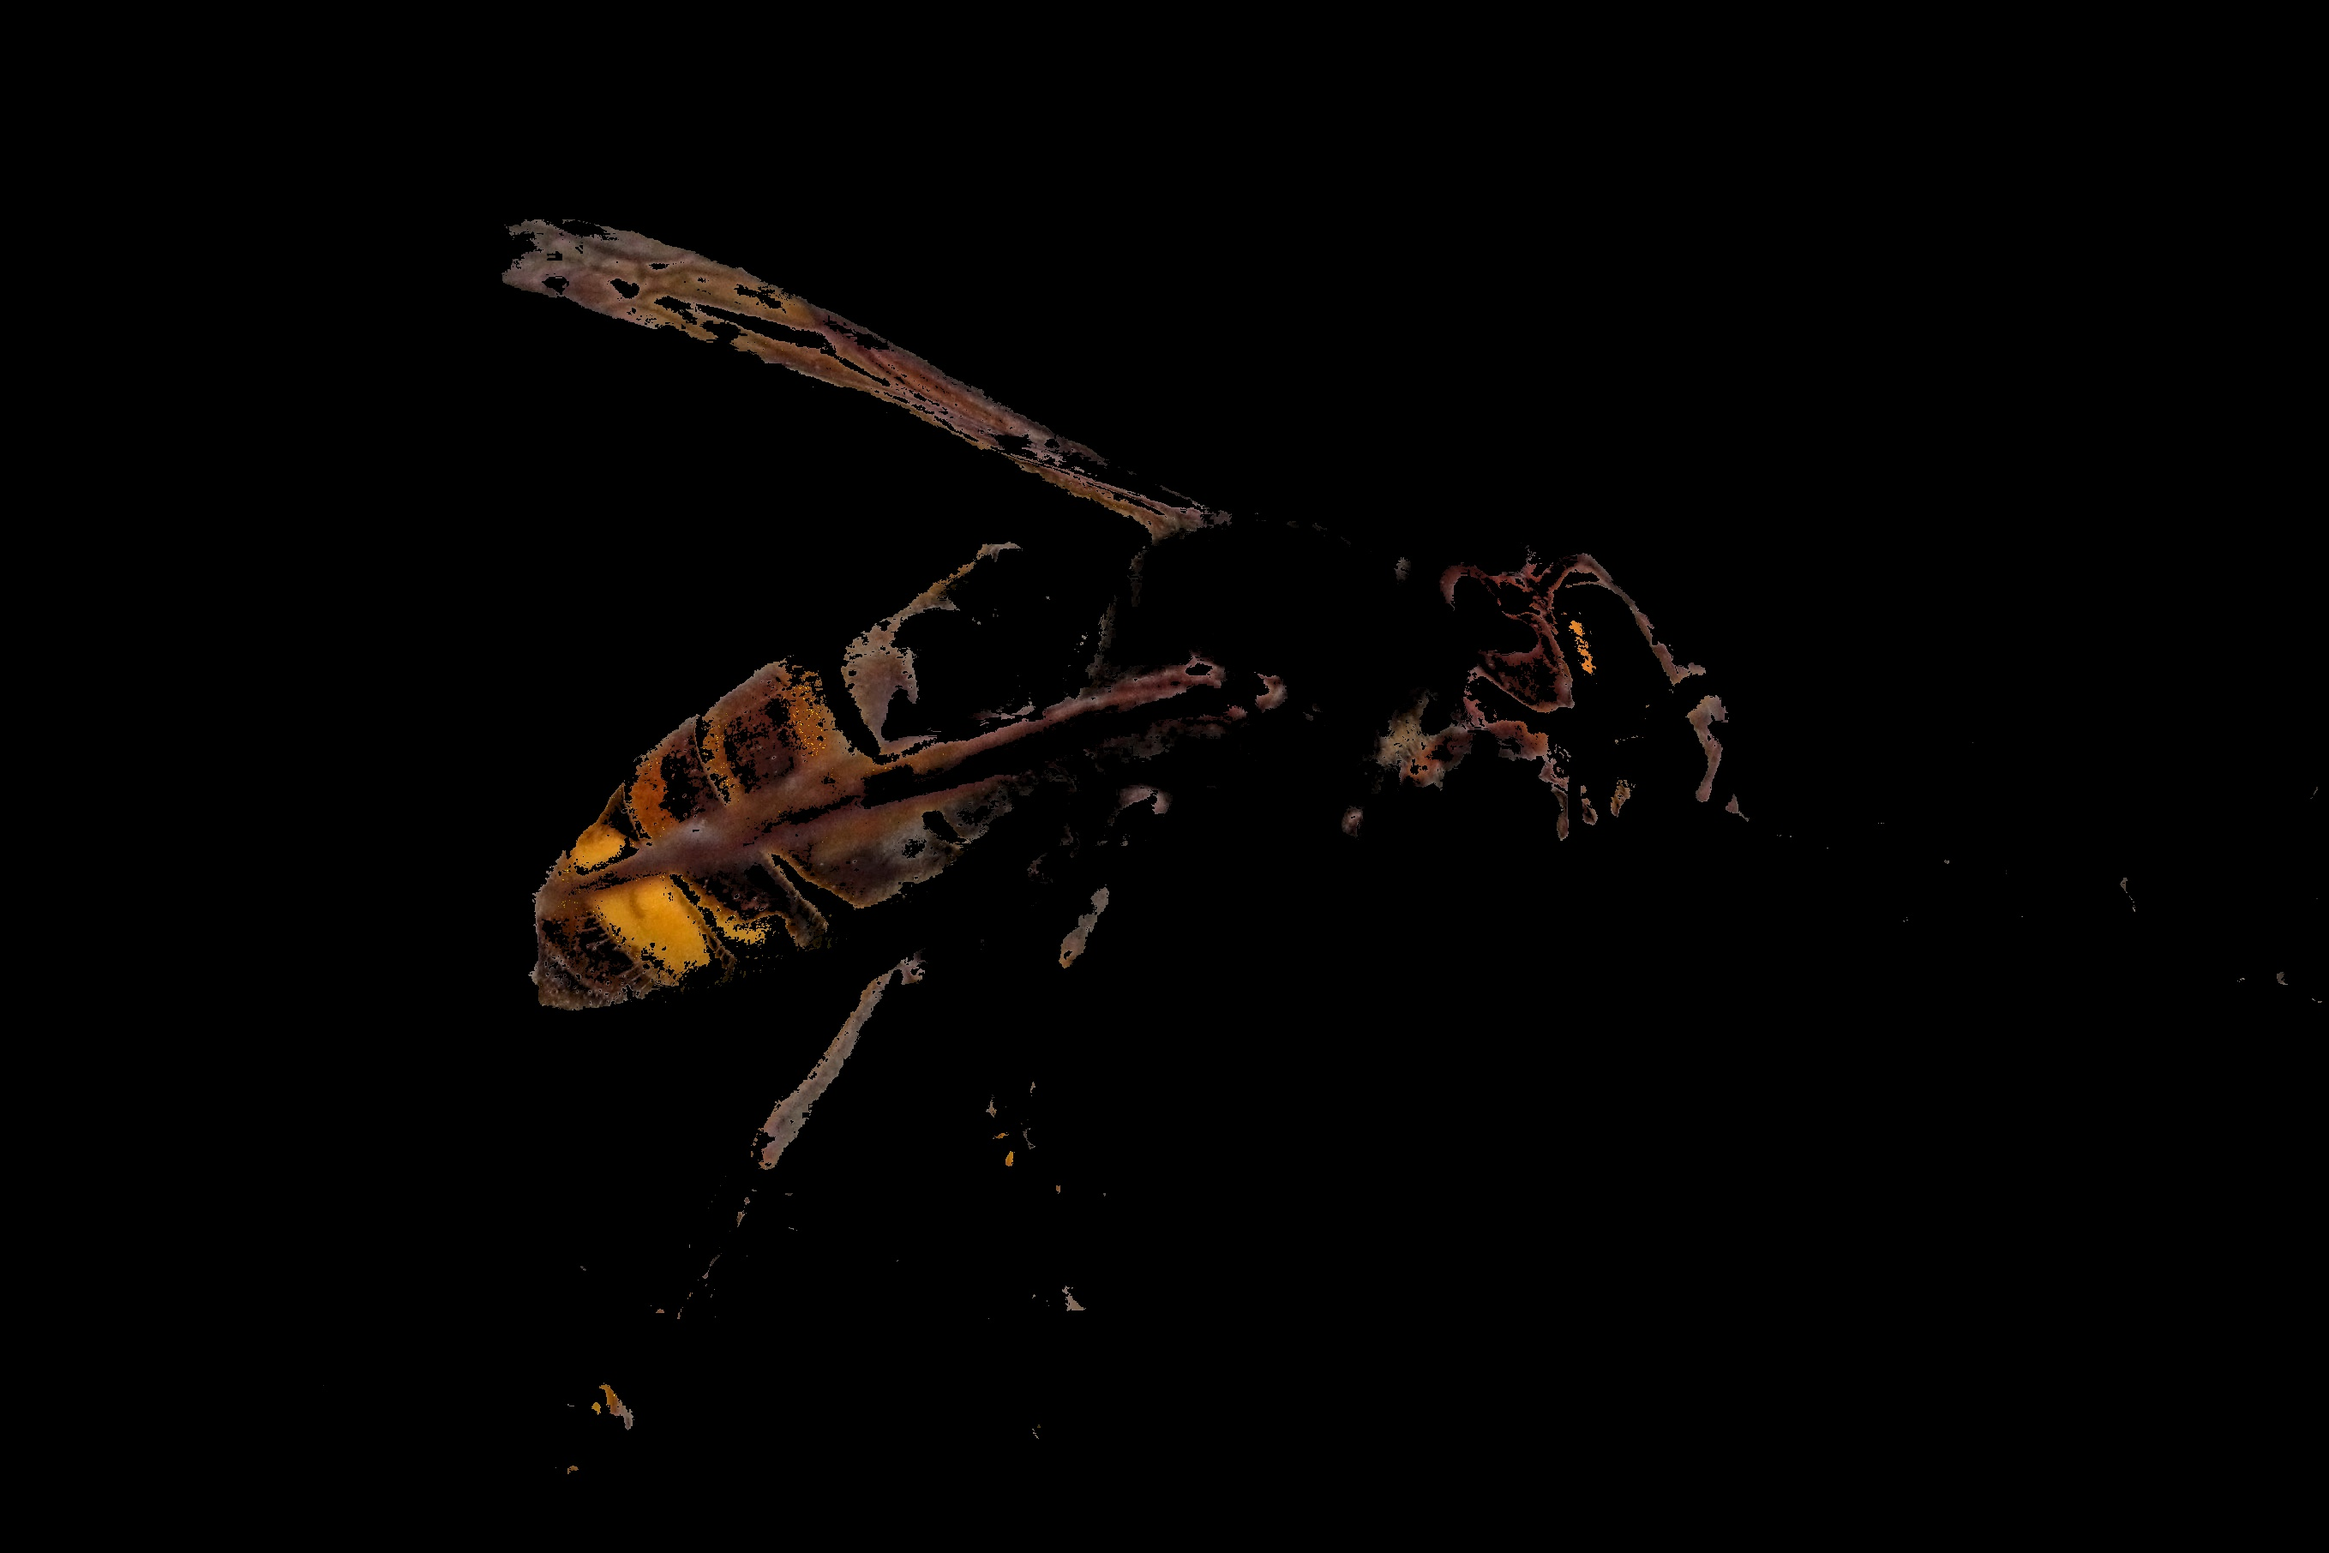
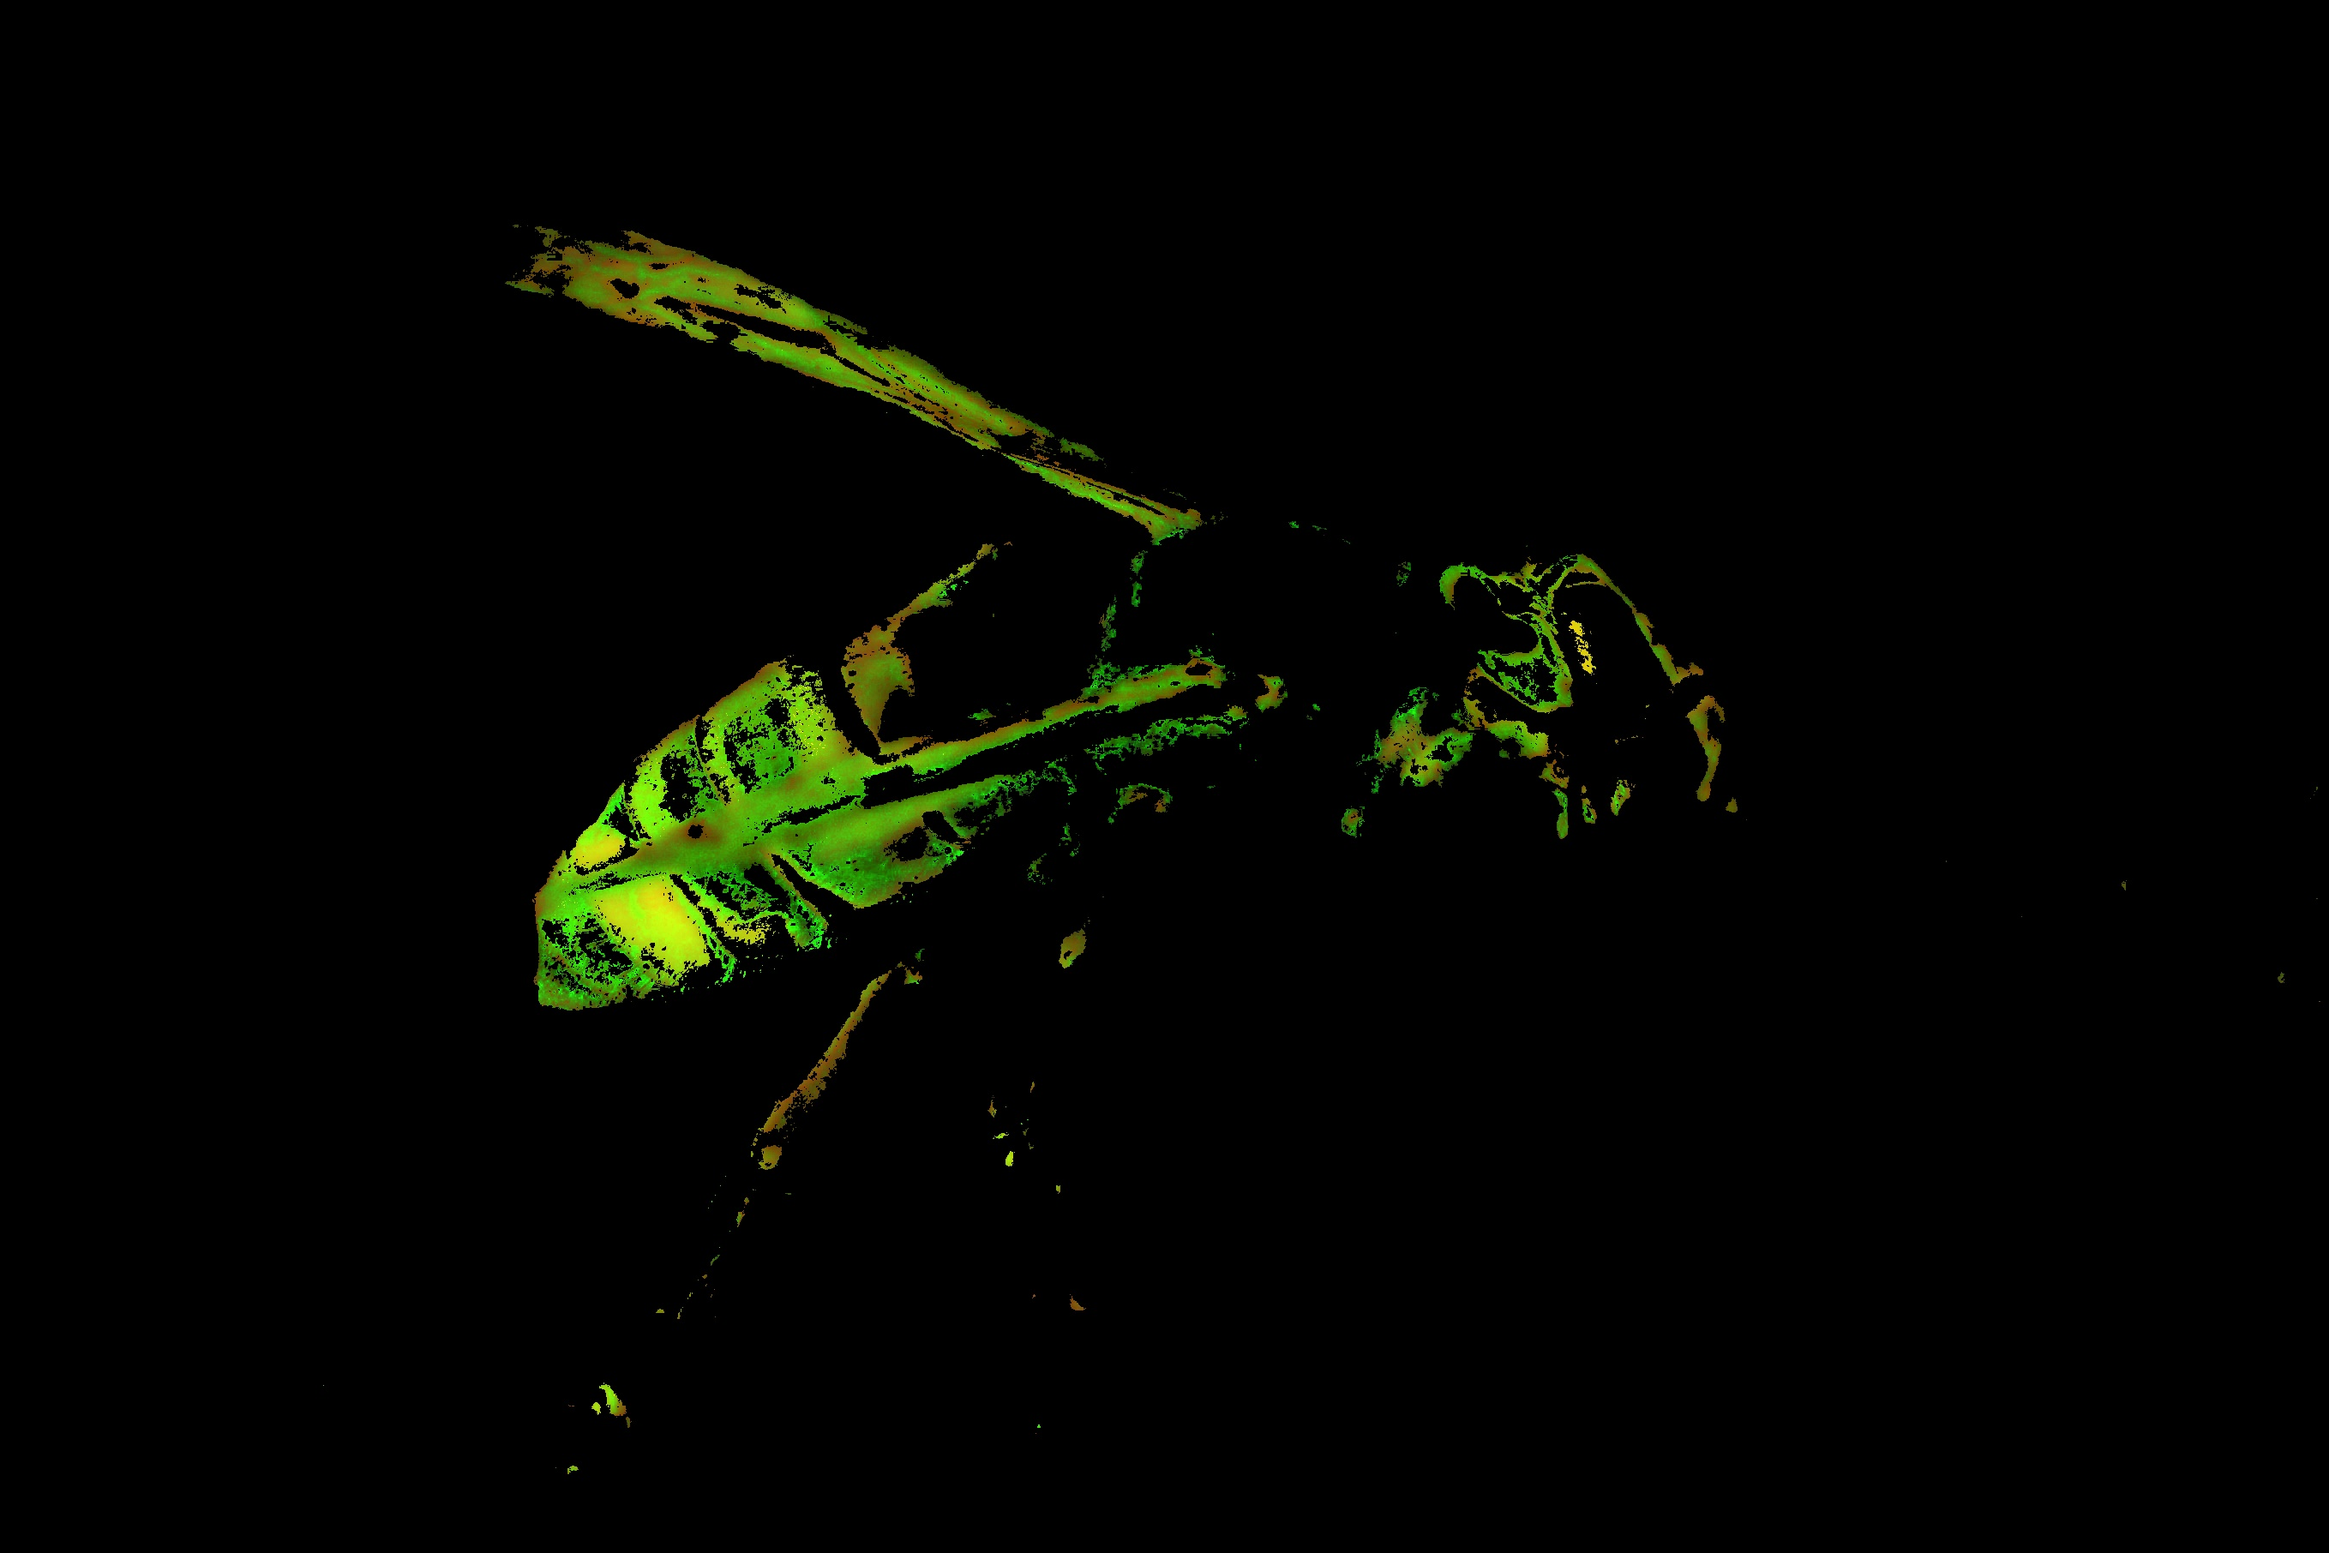
Tries and fails

diff --git a/Cut_Out/colour_mask.py b/Cut_Out/colour_mask.py
@@ -10,7 +10,7 @@ def colour_mask(img : np.ndarray, filename : str):
     color1 = (10, 200, 20)  # orange
     color2 = (28, 255, 255)  # yellow
 
-    color3 = (0, 50 , 0)  # black
+    color3 = (0, 70 , 0)  # black
     color4 = (15, 200, 140)  # brown
 
     # Define threshold color range to filter
@@ -23,13 +23,17 @@ def colour_mask(img : np.ndarray, filename : str):
 
     # Addition of the two masks
     res_hsv = cv2.addWeighted(resBrownToBlack, 1, resOrangeToYellow, 1, 0)
-    res = cv2.cvtColor(res_hsv, cv2.COLOR_HSV2BGR)
+    #res = cv2.cvtColor(res_hsv, cv2.COLOR_HSV2BGR)
+    res = res_hsv
 
 
     # Computing ratio of the color range Orange/Yellow and rounding to two decimal places
     ratioOfOrangeToYellow = cv2.countNonZero(mask1) / (hsv_img.size / 3)
     print('pixel percentage of colour Orange to Yellow:', np.round(ratioOfOrangeToYellow * 100, 2))
-
+    cv2.imshow("orange to yellow mask hornet", resOrangeToYellow)
+    cv2.imshow("brown to black mask hornet", resBrownToBlack)
+    cv2.imshow("Hornet masked", res)
+    cv2.waitKey()
     """
     
     # Show the mask of colour and an image of the mask of the hornet in real colour

diff --git a/Cut_Out/boundingbox.py b/Cut_Out/boundingbox.py
@@ -71,7 +71,7 @@ def boundingbox(mask, filename : str, imagename : str):
     # Create the rect tuple for openCV Grabcut
     rect = (min_x, min_y, abs(min_x - max_x), abs(min_y - max_y))
 
-    mask, bgdModel, fgdModel = cv2.grabCut(new_image, mask, rect, bgdModel, fgdModel, 5, cv2.GC_INIT_WITH_RECT)
+    mask, bgdModel, fgdModel = cv2.grabCut(new_image, mask, rect, bgdModel, fgdModel, 7, cv2.GC_INIT_WITH_RECT)
 
     mask2 = np.where((mask == 2) | (mask == 0), 0, 1).astype('uint8')
     output = new_image * mask2[:, :, np.newaxis]
@@ -84,3 +84,8 @@ def boundingbox(mask, filename : str, imagename : str):
     cv2.imwrite('Footage/cutout_versions/GrabCut/' + imagename, output)
     #cv2.waitKey(0)
     cv2.destroyAllWindows()
+    
+    height = max_y - min_y
+    width = max_x - min_x
+
+    return height, width

diff --git a/Cut_Out/cutout.py b/Cut_Out/cutout.py
@@ -11,4 +11,7 @@ def cutout(filename : str):
     imagename = filename.removeprefix("Footage/")
 
     colour_mask(img, imagename)
-    boundingbox('Footage/cutout_versions/Mask/' + imagename, filename, imagename)
+    height, width = boundingbox('Footage/cutout_versions/Mask/' + imagename, filename, imagename)
+    
+    length = max(height, width)
+    print('size : ' + str(length))

diff --git a/main.py b/main.py
@@ -3,6 +3,7 @@ import sys
 import time
 
 from Cut_Out.cutout import cutout
+from Caracteristics.hornet_class import *
 
 def main():
     

diff --git a/Caracteristics/hornet_class.py b/Caracteristics/hornet_class.py
@@ -1,0 +1,6 @@
+from .abdomen_shape import *
+from .hornet_length import *
+
+def hornet_class():
+    
+    return str

diff --git a/Caracteristics/hornet_length.py b/Caracteristics/hornet_length.py
@@ -1,0 +1,4 @@
+def hornet_length():
+    
+    
+    return int
